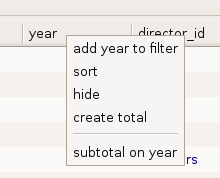
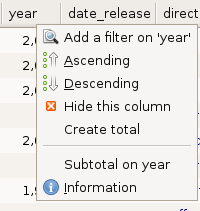
table: added popup in uimanager to create a default popup menu for treeview        added New in popup menu for table

Changed region(s): [[0.0, 0.0281, 1.0, 0.9551], [0.9, 0.9831, 0.96, 1.0]]

diff --git a/sqlkit/widgets/table/table.py b/sqlkit/widgets/table/table.py
@@ -140,6 +140,7 @@ class SqlTable(sqlwidget.SqlWidget):
             ('HideColumns', None, _('Hide field')),
             ('Records', None, 'Records'),
             ('Export', None, _('Export'), None, None, self.export),
+            ('MaskView', gtk.STOCK_ZOOM_IN, _('View this record in a Mask'), None, None, self.record_in_mask),
             ])
 
     def prepare_uimanager(self):
@@ -426,7 +427,11 @@ class SqlTable(sqlwidget.SqlWidget):
         if self.cell_entry and not self.cell_entry.is_valid():
             if not self.cell_validate():
                 return True
-            
+
+        if event.button == 3:
+            menu = self.ui_manager.get_widget('/TreePopup')
+            menu.popup(None, None, None, event.button, event.time)
+        
         ## emit button-press-event of the sqlwidget: event, field_name, value
         #  this happens before the selection gets changed so we cannot use get_selected_obj()
 
@@ -1236,6 +1241,25 @@ class SqlTable(sqlwidget.SqlWidget):
         self.field_list = field_list
         
 
+    def record_in_mask(self, widget):
+
+        from sqlkit.widgets import SqlMask
+
+        def follow_selection(table, mask):
+            mask.set_records([table.current])
+
+        mask = SqlMask(mapper=self.mapper, session=self.session, layout=self.lay,
+                                 relationship_mode='FIXED')
+        mask.set_records([self.current])
+
+        handler_id = self.connect('record-selected', follow_selection, mask)
+
+        def disconnect(mask, id):
+            self.disconnect(id)
+
+        mask.connect('delete-event', disconnect, handler_id)
+        
+
 #### completion
 
     def get_value(self, field_name, shown=True):
@@ -1273,6 +1297,8 @@ class SqlTable(sqlwidget.SqlWidget):
         for field in self.gui_fields:
             field.widget.add_completion(editable=editable)
         
+
+
 
 
 

diff --git a/sqlkit/widgets/common/sqlwidget.py b/sqlkit/widgets/common/sqlwidget.py
@@ -214,7 +214,7 @@ class SqlWidget(gobject.GObject):
             self.widgets[el_def].show()
 
         if self.relationship_mode == 'FIXED':
-            self.actiongroup_edit.set_sensitive(False)
+            self.actiongroup_edit.set_sensitive(True)
             self.actiongroup_browse.set_sensitive(False)
             
     def _set_ignored_fields(self, ignored_list):
@@ -1740,3 +1740,5 @@ class ValidationErrorDialog(object):
 #     def fill_model(self):
 #         self.master.validation_error_fill_model(model)        
     
+
+

diff --git a/sqlkit/widgets/mask/mask.py b/sqlkit/widgets/mask/mask.py
@@ -371,6 +371,8 @@ class SqlMask (sqlwidget.SqlWidget):
             return
             
         def scroll_event_cb(widget, event):
+            if not self.actiongroup_browse.get_sensitive():
+                return
             
             if event.direction == gtk.gdk.SCROLL_UP:
                 return self.record_display(incr=-1)

diff --git a/sqlkit/widgets/common/uidescription.py b/sqlkit/widgets/common/uidescription.py
@@ -62,6 +62,13 @@ TABLE_UI = '''
         <menu action="HideColumns" />
      </menu>
   </menubar>
+
+  <popup name="TreePopup">
+        <menuitem action="MaskView" />
+        <menuitem action="New" />
+        <separator name="sep_del" />
+        <menuitem action="Delete" />
+  </popup>
 '''
 
 MASK_UI = '''

diff --git a/doc/sqlkit/table.rst b/doc/sqlkit/table.rst
@@ -4,21 +4,27 @@
  SqlTables
 ===========
 
-SqlTable is a widget that represent data in a table fasion. Columns that are
+SqlTable is a widget that represent data in a table mode. Columns that are
 foreign keys are presented in blue and a :ref:`description <description>` of
-the foreign key is performed.
+the foreign key is used.
+
+Clicking on any row of the treeview gives the possibility to show the record
+in a Mask View. If a layout was passed to the ``SqlTable``, it will be
+passed to SqlMask.
 
 
 Options
 =======
 
-:rows: 
-  how many rows should be initially allocated space for
+.. class:: sqlkit.widgets.Sqlwidget(same options as sqlwidget + listed below)
+
+  :param rows:  how many rows should be initially allocated space for
 
 Attributes
 ==========
 
-:totals:
+.. attribute:: totals
+
    class for :ref:`totals`: see the specific documentation for further info
 
 .. image:: ../img/menu.png
@@ -27,17 +33,25 @@ Attributes
 Methods
 =======
 
-:set_opts:
-   allows to disable icons in a m2m relationship (icons=False), eliminate
-   scrollbars (scroll=x|y|xy|None)
+.. method:: set_opts(scroll=None, icons=True)
 
-:set_editable:
-   only meaningful for table that represent an m2m relationship: turns the
-   table from non editable to editable, read the explanation in
-   :ref:`relationships`
+   :param scroll: eliminate scrollbars (values: x|y|xy|None)
 
-:hide_field:
-   hides columns, adding a row in the menu to make it show up again at will 
+   :param icons: allows to disable icons in a m2m relationship
+   :type scroll: boolean 
+   
+
+.. method:: set_editable(editable)
+
+   :param editable: Only meaningful for table that represent an
+          m2m relationship: turns the table from non editable to editable, 
+	  read the explanation in :ref:`relationships`
+   :type editable: boolean
+
+.. method:: hide_fields(field_list)
+
+   :param field_list:  hides columns, adding a row in the menu to make it
+          show up again at will 
    
 Column headers
 ==============
@@ -97,3 +111,5 @@ Signals
 :button-press-event: this event is emitted when clicking in the treeview if
        there are no pending validation errors (in which case you are forced
        to solve them before)
+
+
